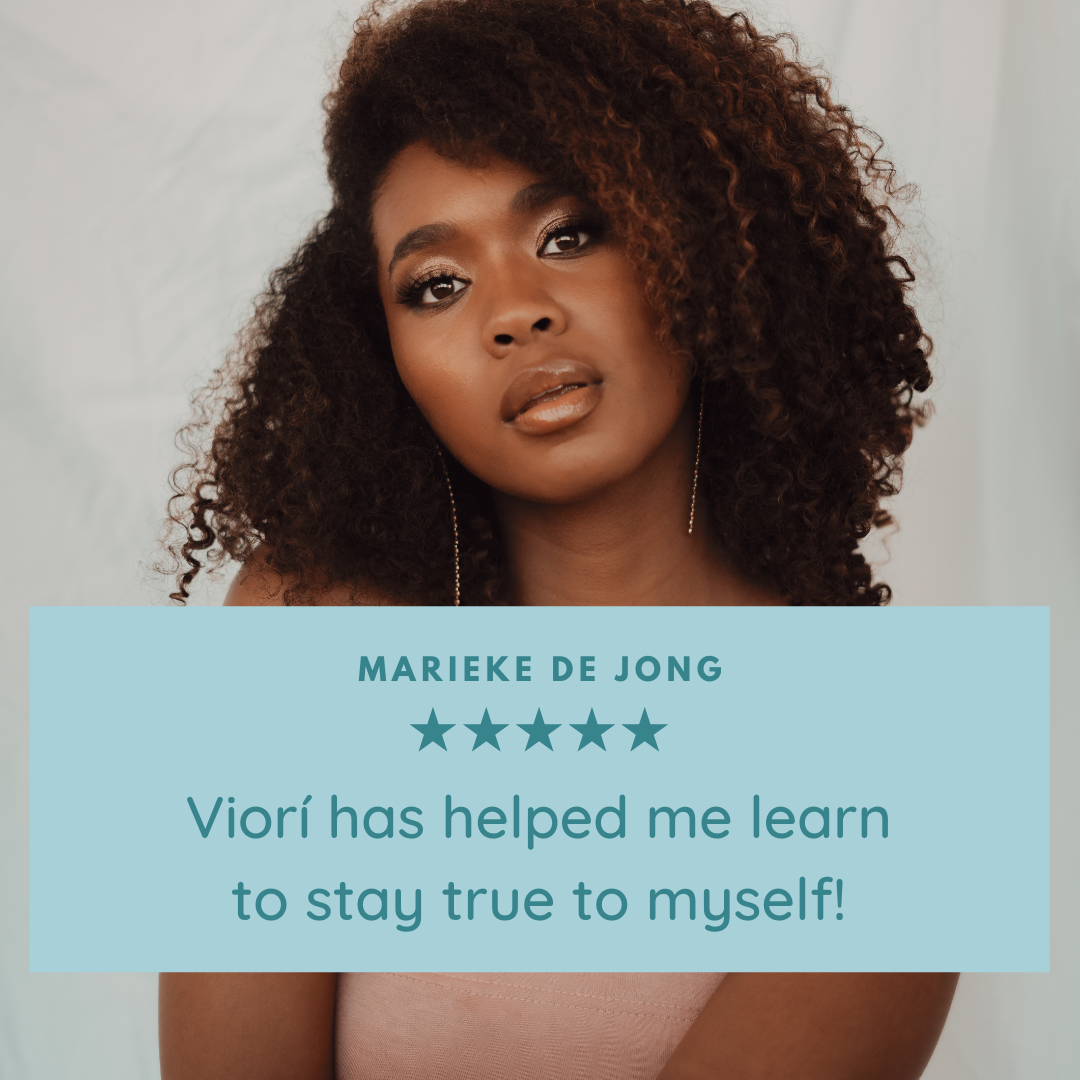
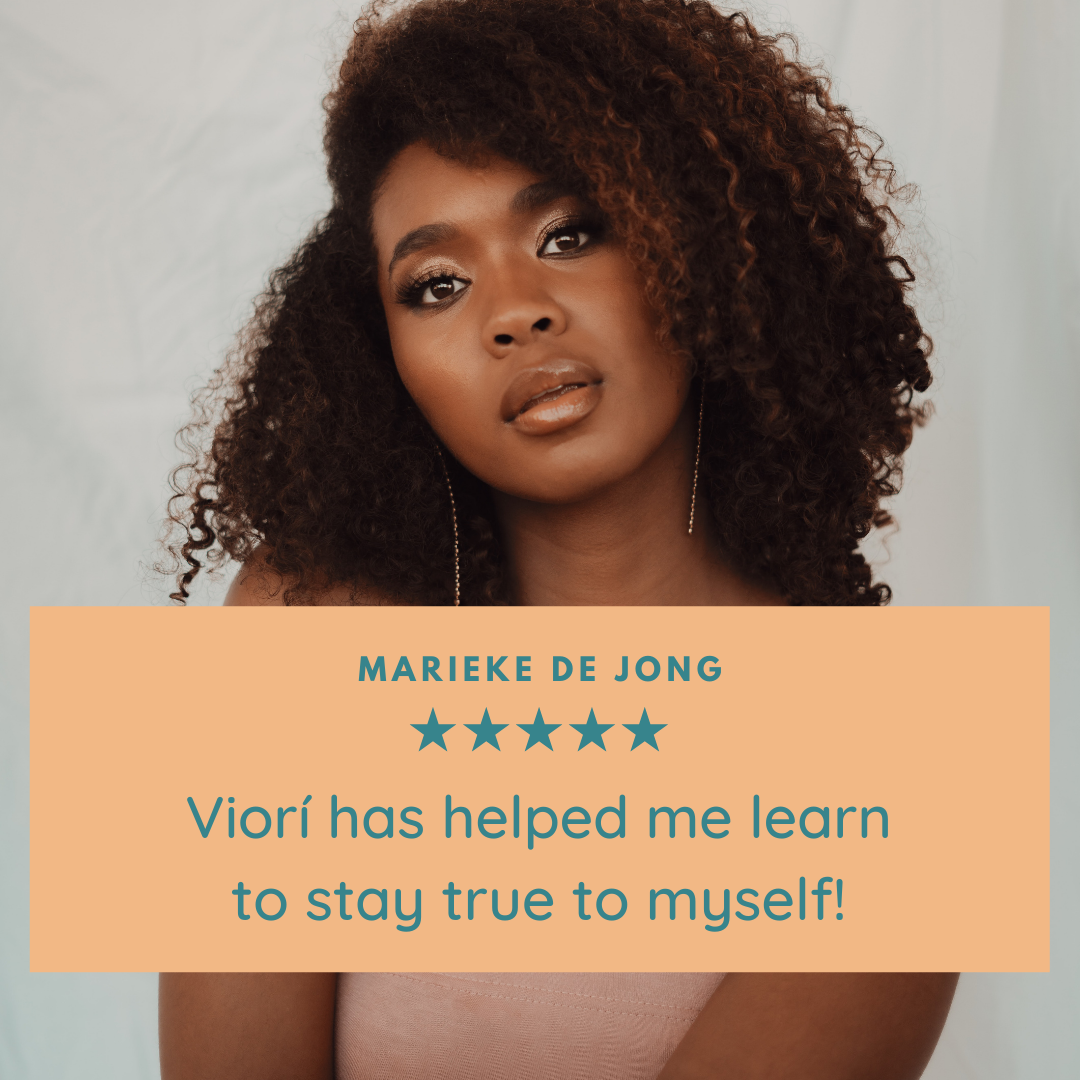
small changes

diff --git a/meettheteam.html b/meettheteam.html
@@ -76,7 +76,7 @@
   		</div>
 	  <div class="member col-sm-4">
    		<img src="images/lena.png" class="img-responsive img-thumbnail" alt="Responsive image" width= "250" />
-   		<p class="px-0"><strong>&nbsp; &nbsp; &nbsp; &nbsp; &nbsp; &nbsp; &nbsp; &nbsp; &nbsp; &nbsp;Lena Żubica</strong></p>
+   		<p class="px-0"><strong>&nbsp; &nbsp; &nbsp; &nbsp; &nbsp; &nbsp; &nbsp; &nbsp; &nbsp; &nbsp;Lena Żubicka</strong></p>
       		<p>I feel that it's very important to remind young women that they should not care about others opinion, and that's what makes me feel enthusiastic about working on ViorÍ.</p>
   		</div>
 	  <div class="member col-sm-4">

diff --git a/reviews.html b/reviews.html
@@ -67,7 +67,7 @@
     </nav>
     <!-- End of navigation bar -->
 
-<div class="container-fluid" style="background-color:#F2B885">
+<div class="container-fluid">
 <h1 style="text-align: center;"><strong>WHAT OUR CLIENTS SAY</strong></h1>
 
 <!-- Start of carrousel, adapted from https://getbootstrap.com/docs/5.1/components/carousel/ -->
